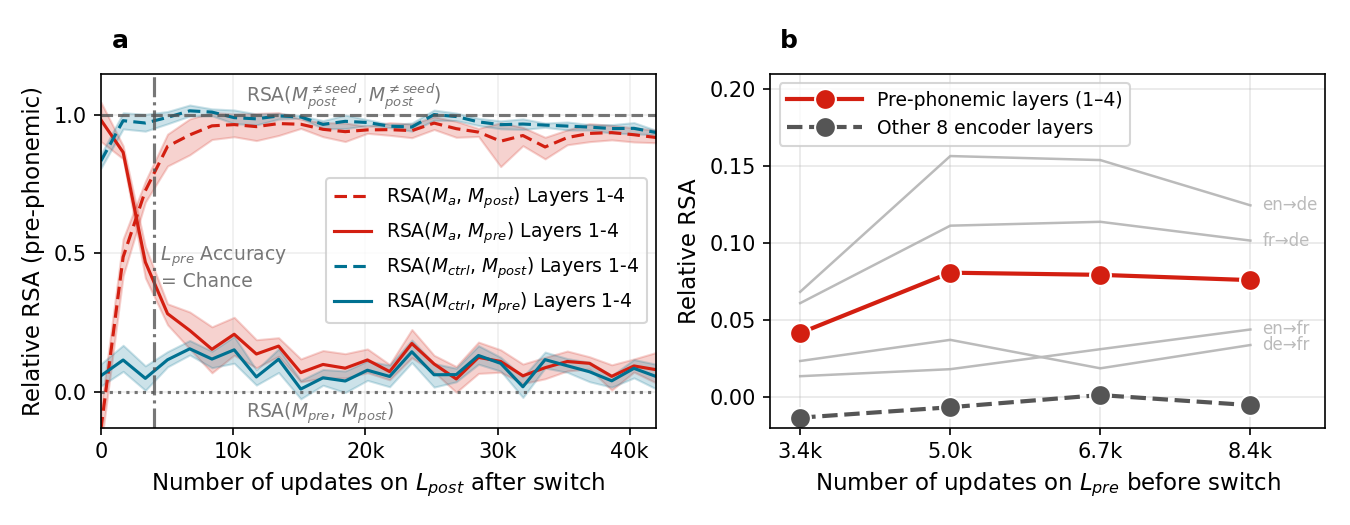
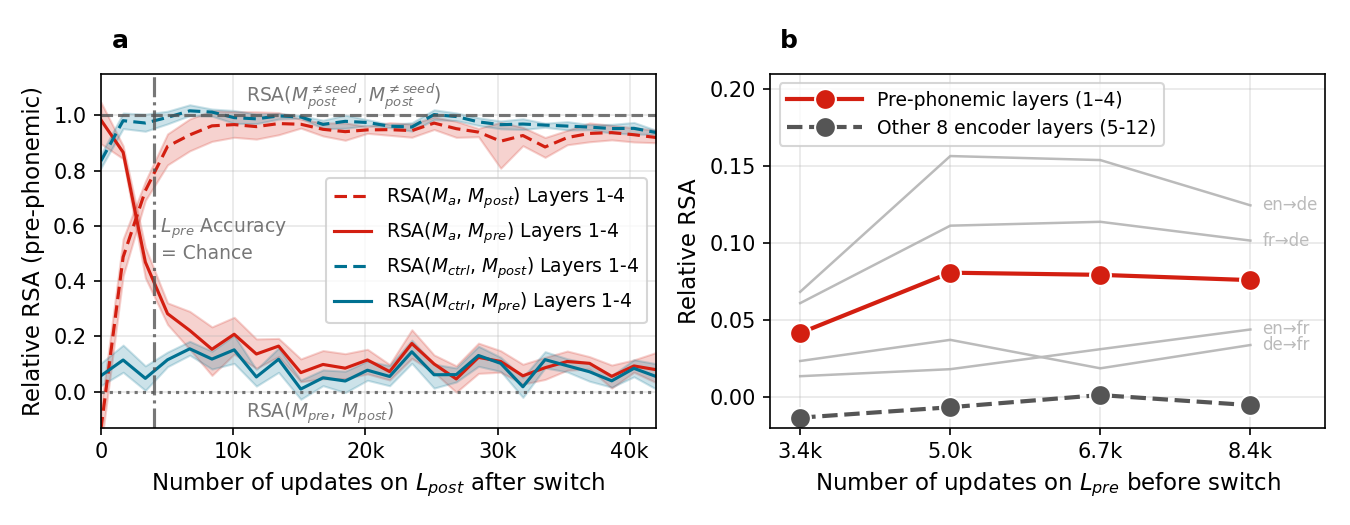
Update CI analysis

diff --git a/figures/figure_4_correlation_scores.py b/figures/figure_4_correlation_scores.py
@@ -3,7 +3,7 @@ import matplotlib.pyplot as plt
 import seaborn as sns
 import numpy as np
 import matplotlib.ticker as mticker
-from mpl_toolkits.axes_grid1.inset_locator import inset_axes, mark_inset
+from scipy import stats
 
 STEPS_PER_EPOCH = 1680
 RANDOM_CHANCE_STEP = 4000
@@ -15,12 +15,6 @@ Ma = f"{Lpre}2{Lpost}"
 Mctrl = f"{Lctrl}2{Lpost}"
 Mpre = Lpre
 Mpost = Lpost
-
-# Model group definitions
-pre_models      = ['de25_take2', 'de25_take3', 'de25_take6']
-post_models     = ['fr25_take4', 'fr25_take6']
-adoptee_models  = ['de5_fr25_take2', 'de5_fr25_take6', 'de5_fr25_take8']
-control_models  = ['en5_fr25_take8', 'en5_fr25_take9', 'en5_fr25_take10']
 
 a_pre_label     = "RSA($M_a$, $M_{pre}$) Layers 1-4"
 a_post_label    = "RSA($M_a$, $M_{post}$) Layers 1-4"
@@ -112,15 +106,22 @@ if __name__ == "__main__":
         )
     )
     
+    # average within each seed over the plateau window
+    plateau_by_seed = (
+        df_traj
+        .filter(pl.col("steps").is_between(36_000, 42_000))
+        .group_by(["category", "seed_a"])
+        .agg(seed_mean=pl.col("score_norm").mean())
+    )
 
-    # Print 95% CI for final percentage value
-    print("Panel A — stats for 36-42k steps:")
-    for (cat,), grp in df_traj.filter(pl.col('steps').is_between(36_000, 42_000)).group_by('category'):
-        vals = grp['score_norm'].to_numpy()
-        mean, se = vals.mean(), vals.std(ddof=1) / np.sqrt(len(vals))
-        ci = 1.96 * se
-        print(f"  {cat}  n={len(vals)}  mean={mean:.3f}  95% CI=[{mean-ci:.3f}, {mean+ci:.3f}]")
-
+    print("Panel A — stats for 36-42k steps (one value per seed, t-distribution CI):")
+    for (cat,), grp in plateau_by_seed.group_by("category"):
+        vals = grp["seed_mean"].to_numpy()
+        n = len(vals)
+        popmean = 1 if vals.mean() > 0.5 else 0
+        result = stats.ttest_1samp(vals, popmean)
+        low, high = result.confidence_interval(0.95)
+        print(f"{cat}   n_seeds={len(vals)}   mean={vals.mean():.3f}   95% CI=[{low:.3f}, {high:.3f}]   p={result.pvalue:.4f}")
 
     # Load & reshape panel-B data
     df_b = (
@@ -167,7 +168,7 @@ if __name__ == "__main__":
 
     # Reference lines
     ax_a.axvline(RANDOM_CHANCE_STEP, color='#555', ls='-.', alpha=0.8)
-    ax_a.text(RANDOM_CHANCE_STEP + 100, 0.45, " $L_{pre}$ Accuracy\n = Chance",  color='#555', alpha=0.8, va='center', ha='left', fontsize=9)
+    ax_a.text(RANDOM_CHANCE_STEP + 100, 0.55, " $L_{pre}$ Accuracy\n = Chance",  color='#555', alpha=0.8, va='center', ha='left', fontsize=9)
     ax_a.axhline(1, color='#555', ls='--', alpha=0.8)
     ax_a.axhline(0, color='#555', ls=':',  alpha=0.8)
     ax_a.text(11_000, 1.01, topline_label,  color='#555', alpha=0.8, va='bottom', ha='left', fontsize=9)
@@ -176,9 +177,9 @@ if __name__ == "__main__":
     ax_a.set_ylabel('Relative RSA (pre-phonemic)', fontsize=11)
     ax_a.set_ylim(-0.13, 1.15)
     ax_a.set_xlim(0, 42_000)
-    ax_a.set_yticks([0, 0.5, 1.0])
+    ax_a.set_yticks([0, 0.2, 0.4, 0.6, 0.8, 1.0])
     ax_a.set_xticks([0, 10_000, 20_000, 30_000, 40_000])
-    ax_a.grid(True, alpha=0.2)
+    ax_a.grid(True, alpha=0.3)
     ax_a.legend(loc='center right', handlelength=2.0, fontsize=9)
     ax_a.xaxis.set_major_formatter(mticker.FuncFormatter(k_formatter))
 
@@ -198,7 +199,7 @@ if __name__ == "__main__":
     agg = df_plot.group_by("pre_steps").mean().sort("pre_steps")
     ax_b.plot(agg["pre_steps"], agg['s14'],  color=C['madop'], lw=2.0, label='Pre-phonemic layers (1–4)',
         marker='o', markeredgecolor="white", markersize=10)
-    ax_b.plot(agg["pre_steps"], agg['s512'], color='#555', lw=2.0, label='Other 8 encoder layers',
+    ax_b.plot(agg["pre_steps"], agg['s512'], color='#555', lw=2.0, label='Other 8 encoder layers (5-12)',
         ls='--', marker='o', markeredgecolor="white", markersize=10)
 
     ax_b.set_xlabel('Number of updates on $L_{pre}$ before switch', fontsize=11)

diff --git a/figures/figure_3_phoneme_probe.py b/figures/figure_3_phoneme_probe.py
@@ -198,7 +198,7 @@ if __name__ == "__main__":
     for (lo, hi, name), shade in zip(ZONE_BOUNDS, ZONE_SHADE):
         ax_a.axvspan(lo, hi, color=shade, zorder=-10)
         ax_a.text(
-            (lo + hi) / 2, 0.99, name,
+            (lo + hi) / 2, 0.98, name,
             transform=ax_a.get_xaxis_transform(),  # x in data coords, y in axes fraction
             fontsize=9, ha="center", va="top", color="#555555", style="italic",
         )
@@ -224,6 +224,19 @@ if __name__ == "__main__":
             m_a_val = bin_data.filter(pl.col("model_type") == "$M_a$")["norm_acc"].to_list()
             m_ctrl_val = bin_data.filter(pl.col("model_type") == "$M_{ctrl}$")["norm_acc"].to_list()
 
+            if b_name == "Pre-phonemic":
+                pair_name_short = pair_name.replace("French", "fr").replace("English", "en").replace("German", "de")
+                ax_b.text(
+                    x=x_map[b_name] - dx - 0.1, 
+                    y=m_a_val[0],
+                    s=pair_name_short,
+                    ha="right",
+                    va="center",
+                    color="grey",
+                    fontsize=8,
+                )
+
+
             if m_a_val and m_ctrl_val:
                 x_center = x_map[b_name]
                 x_ctrl = x_center + dx
@@ -240,13 +253,13 @@ if __name__ == "__main__":
     # Annotate the weirdly high control points
     oval = mpatches.Ellipse(xy=(0.2, 0.275), width=0.15, height = 0.08, edgecolor="black", lw=1, zorder=3, fc='None')
     ax_b.add_patch(oval)
-    ax_b.annotate(text="$M_a$ & $M_{ctrl}$ adopted\nfrom the same\nlanguage family", xy=(0.21, 0.28), xytext=(0.5, 0.29),
-        color='black', va="top", arrowprops=dict(arrowstyle='-|>', color='black', lw=2), fontsize=9)
+    ax_b.annotate(text="$M_a$ and $M_{ctrl}$\nadopted from\nthe same\nlanguage family", xy=(0.21, 0.28), xytext=(0.5, 0.29),
+        color='black', va="top", arrowprops=dict(arrowstyle='-|>', color='black', lw=2), fontsize=8)
 
 
     ax_b.set_xticks(range(len(bin_order)))
     ax_b.set_xticklabels(bin_order, fontsize=9)
-    ax_b.set_xlim(-0.5, len(bin_order) - 0.5)
+    ax_b.set_xlim(-0.8, len(bin_order) - 0.5)
 
     legend_handles = [
         plt.Line2D([0], [0], marker='o', color='w', markerfacecolor=C[EX_ADOPT], markersize=8, label="$M_a$"),
